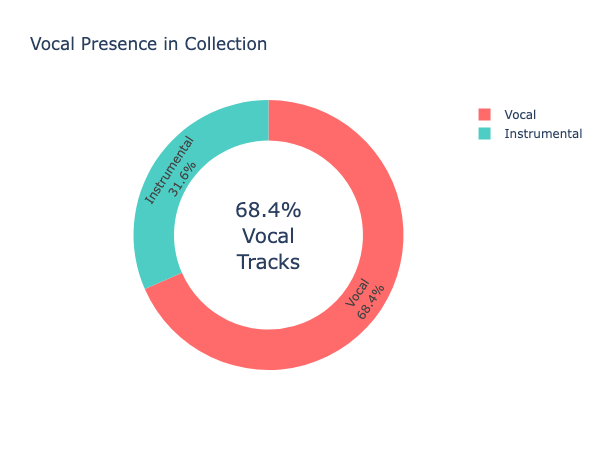
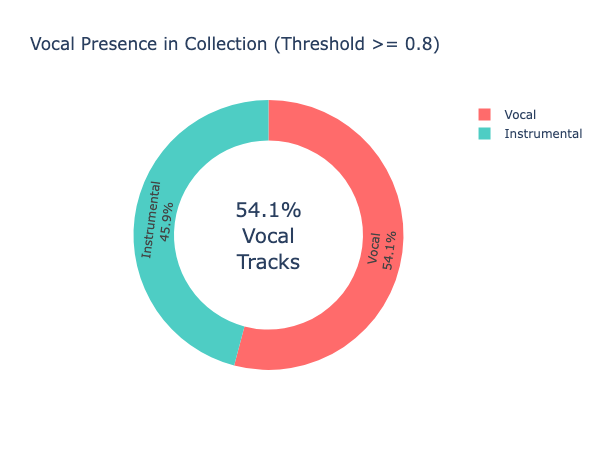
update vocal threshold, add point about voice probability analysis

diff --git a/playlist_generation/music_library.py b/playlist_generation/music_library.py
@@ -170,7 +170,7 @@ class MusicLibrary:
                 & (filtered_df["tempo"] <= tempo_range[1])
             ]
         if has_vocals is not None:
-            threshold = 0.5
+            threshold = 0.8
             is_vocal = filtered_df["voice_instrumental"].apply(
                 lambda x: x["voice"] > threshold
             )

diff --git a/Report.md b/Report.md
@@ -22,6 +22,8 @@
          - Valence and arousal data was stored in its full range [1,9].
          - For analysis and filtering, values were normalized to fall between -1 and 1.
          - This normalization enables the division of the data into four distinct quadrants, simplifying the interpretation of emotional states.
+         - A threshold of 0.8 voice probability was empirically determined to effectively distinguish between vocal and instrumental tracks, based on observations within my own music library.
+
 
    2. Statistics Overview:
       - Calculated measures (mean, median, std, variance) for audio features provide a robust quantitative overview.
@@ -52,7 +54,7 @@ Observations
    - While most features are extracted reliably, occasional misclassifications (e.g., ambiguous genre splits or key data) call for further tuning of preprocessing methods.
    - Most tracks exhibited clear tempo and loudness values with distinct genre separations.
    - Bad example: Some tracks had ambiguous key detections (e.g., inconsistent key and scale values), affecting the reliability of key profiles.
-
+   - Initially, a voice probability threshold of 0.5 was tested for vocal/instrumental classification; however, after analyzing my own music library, a threshold of 0.8 was empirically determined to be more effective, as lower probabilities resulted in numerous false positives, while the remaining false positives at 0.8 were considered outliers.
 ---
 
 # Analysis Report
@@ -131,9 +133,12 @@ Observations
 
 ## 6. **Vocal/Instrumental Balance**
 
+**Vocal/Instrumental Separation:**
+- A threshold of 0.8 voice probability was empirically determined to effectively distinguish between vocal and instrumental tracks, based on observations within my own music library.
+
 **Breakdown:**
-- **Vocal:** **68.4%**
-- **Instrumental:** **31.6%** 
+- **Vocal:** **54.1%**
+- **Instrumental:** **45.9%** 
 
 ![Vocal/Instrumental Distribution](reports/vocal-instrumental.png)
 
